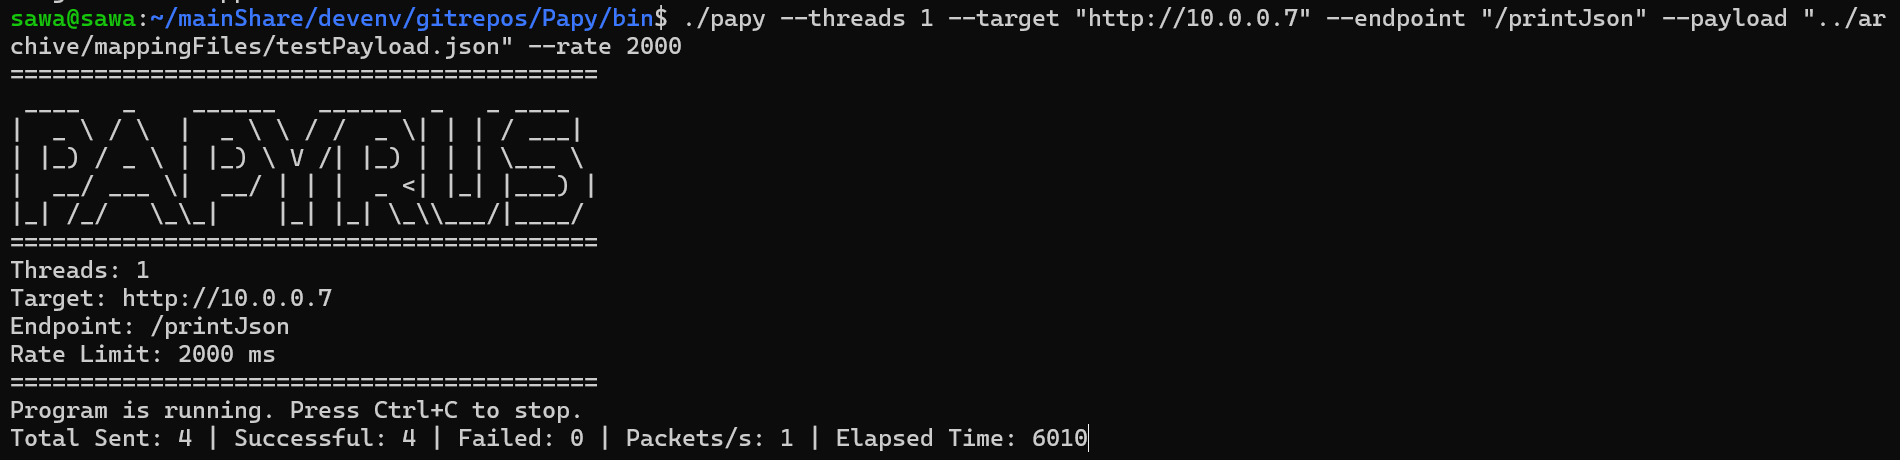
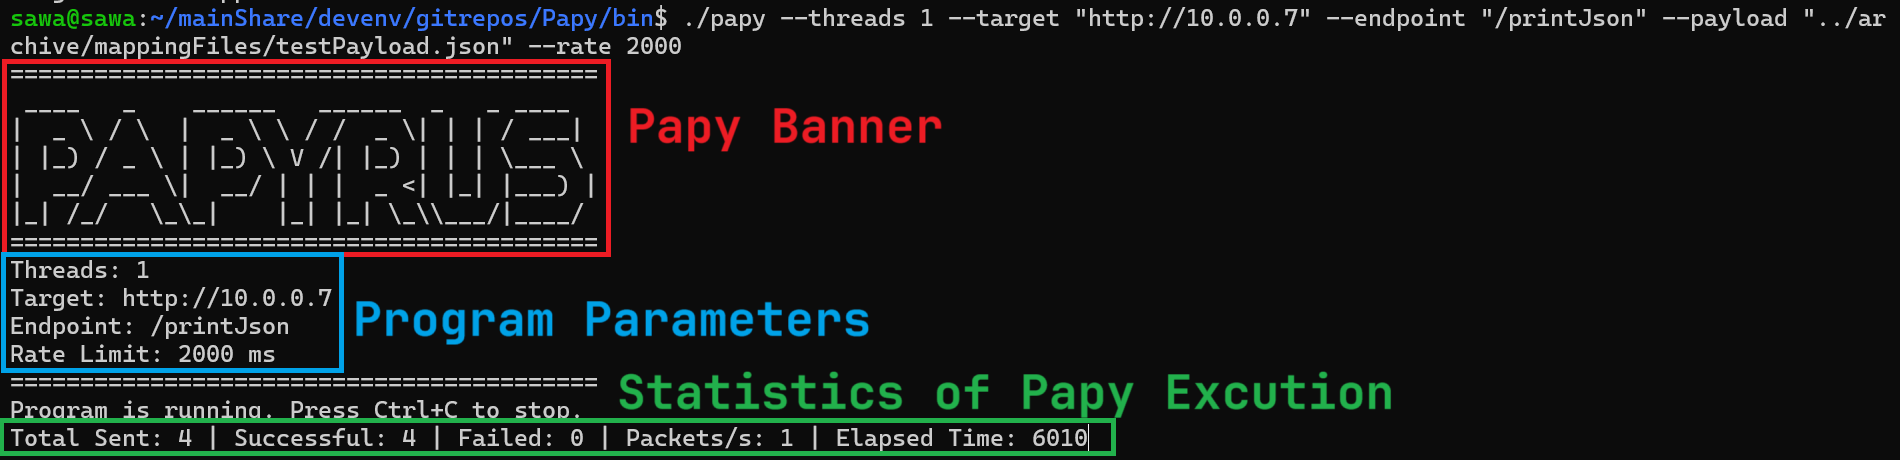
read

diff --git a/docs/userDocumentation.md b/docs/userDocumentation.md
@@ -121,12 +121,13 @@ The following is an example of me testing the database of a locally deployed web
 
 #### M-Track PostgreSQL Databse After Papy
 ![M-Track databse after Papy](documentationImages/postPapy.png "M-Track databse after Papy")
+
+
 ---
 
-## User Interface Guide
-- **UI Elements**: Description of key components in the user interface.
-- **Navigation**: Tips for moving through the application efficiently.
-- **Common Workflows**: Examples of typical tasks performed in the software.
+## User Interface 
+Since this was designed to be simple as well as a Command Line Interface tool the UI follows this paradigm.
+![Papy User Interface](documentationImages/postUI.png "Papy User Interface")
 
 ---
 
